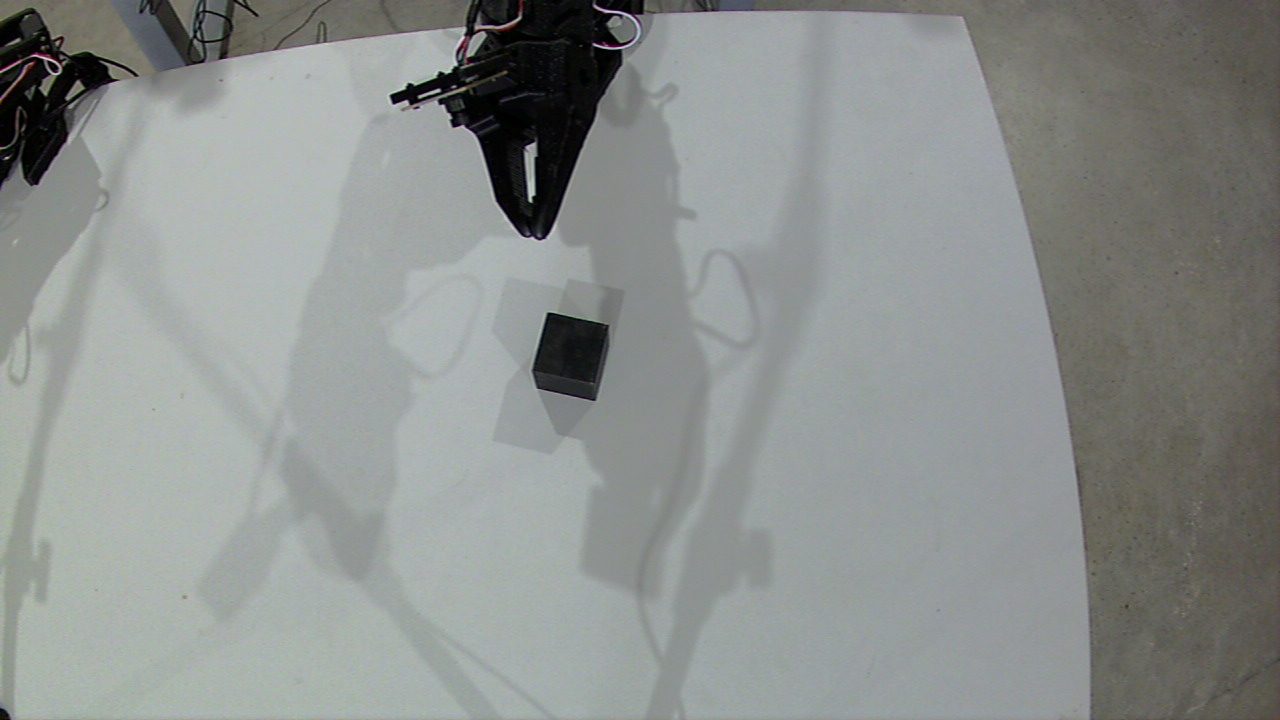
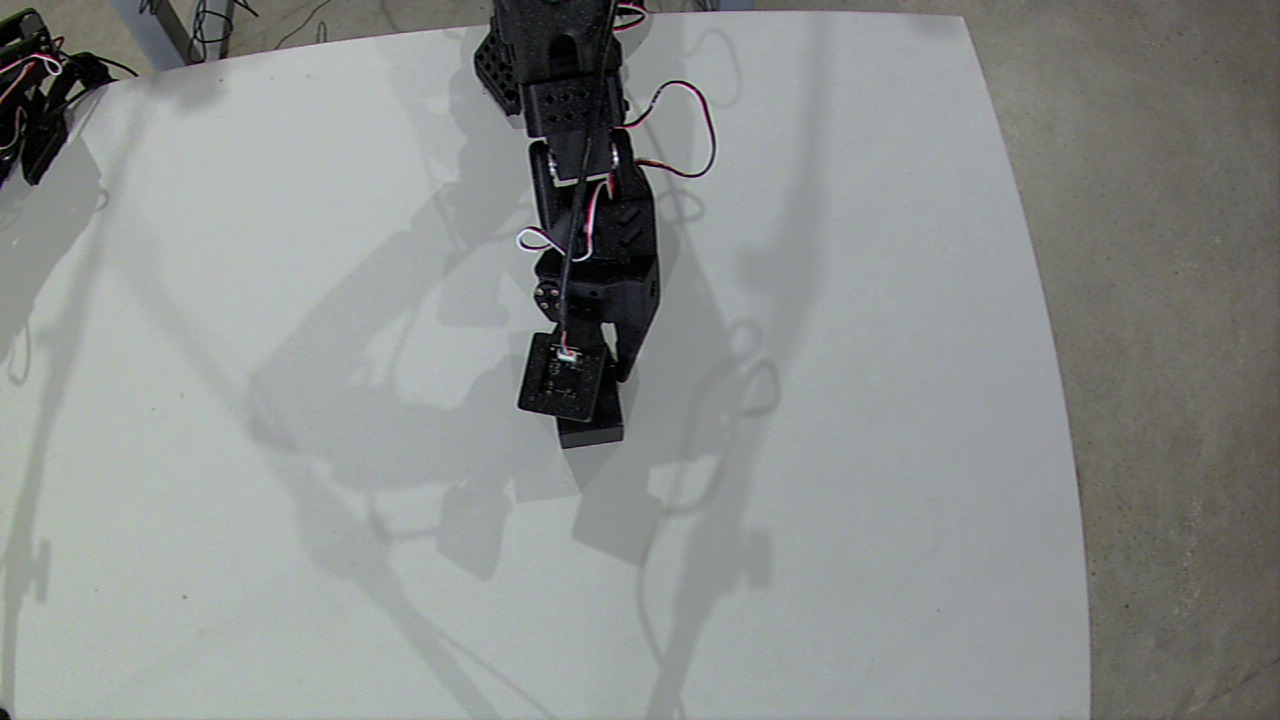
Update tools for arm-007__gpt-6-astra__grasp-cube
{"agent_id": "arm-007__gpt-6-astra__grasp-cube", "designation": "arm-007", "identity_version": 2, "model": "gpt-6-astra", "provider": "codex", "task_definition": {"description": "Start episode, pickup the black cube, bring black cube to home position, confirm successful grasp, stop episode, return object to new position, return home, repeat", "id": "grasp-cube", "success_criteria": ["successful episode coverage across the entire workspace", "achieve at least 50 successful episodes an hour"], "version": 2}, "task_id": "grasp-cube", "task_sha256": "e6c8adbb1562fdc6af3405e2e618046b110e27856c520c9f5cd329c258fb3818", "task_version": 2, "tools_sha256": "481731e77c12e09ee3c6ecb9f970f828139105bc9627882ee6cc10933867acc0"}

diff --git a/agents/arm-007__gpt-6-astra__grasp-cube/cube_cycles.py b/agents/arm-007__gpt-6-astra__grasp-cube/cube_cycles.py
@@ -91,7 +91,9 @@ def run(n):
     coverage()
     if not ok:raise RuntimeError('Grasp not verified at home')
     target=pose(*grid[i%len(grid)])
-    move(b,above(target));move(b,target,1.5)
+    placement=dict(target)
+    placement['shoulder_lift']+=depth;placement['wrist_flex']-=depth
+    move(b,above(placement));move(b,placement,2)
     move(b,{'gripper':65},1.5)
     current=target;STATE.write_text(json.dumps(current))
     move(b,above(current),3);home(b)
